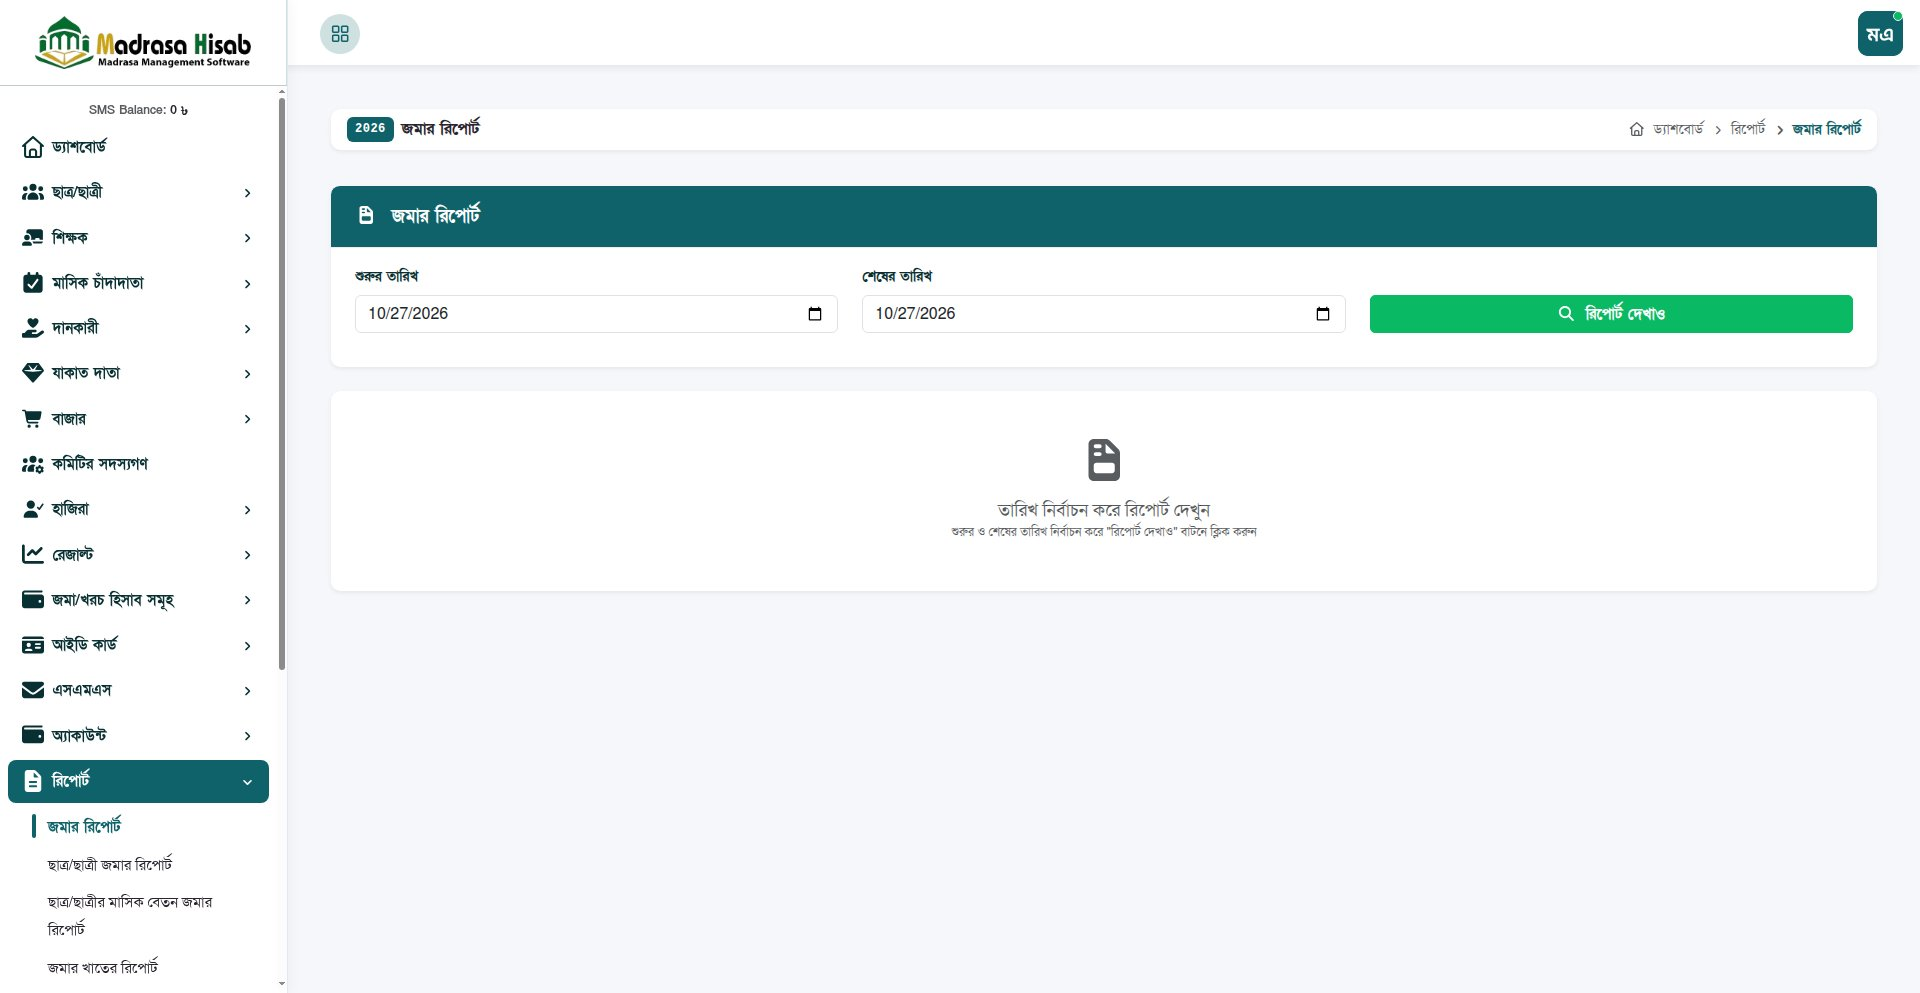
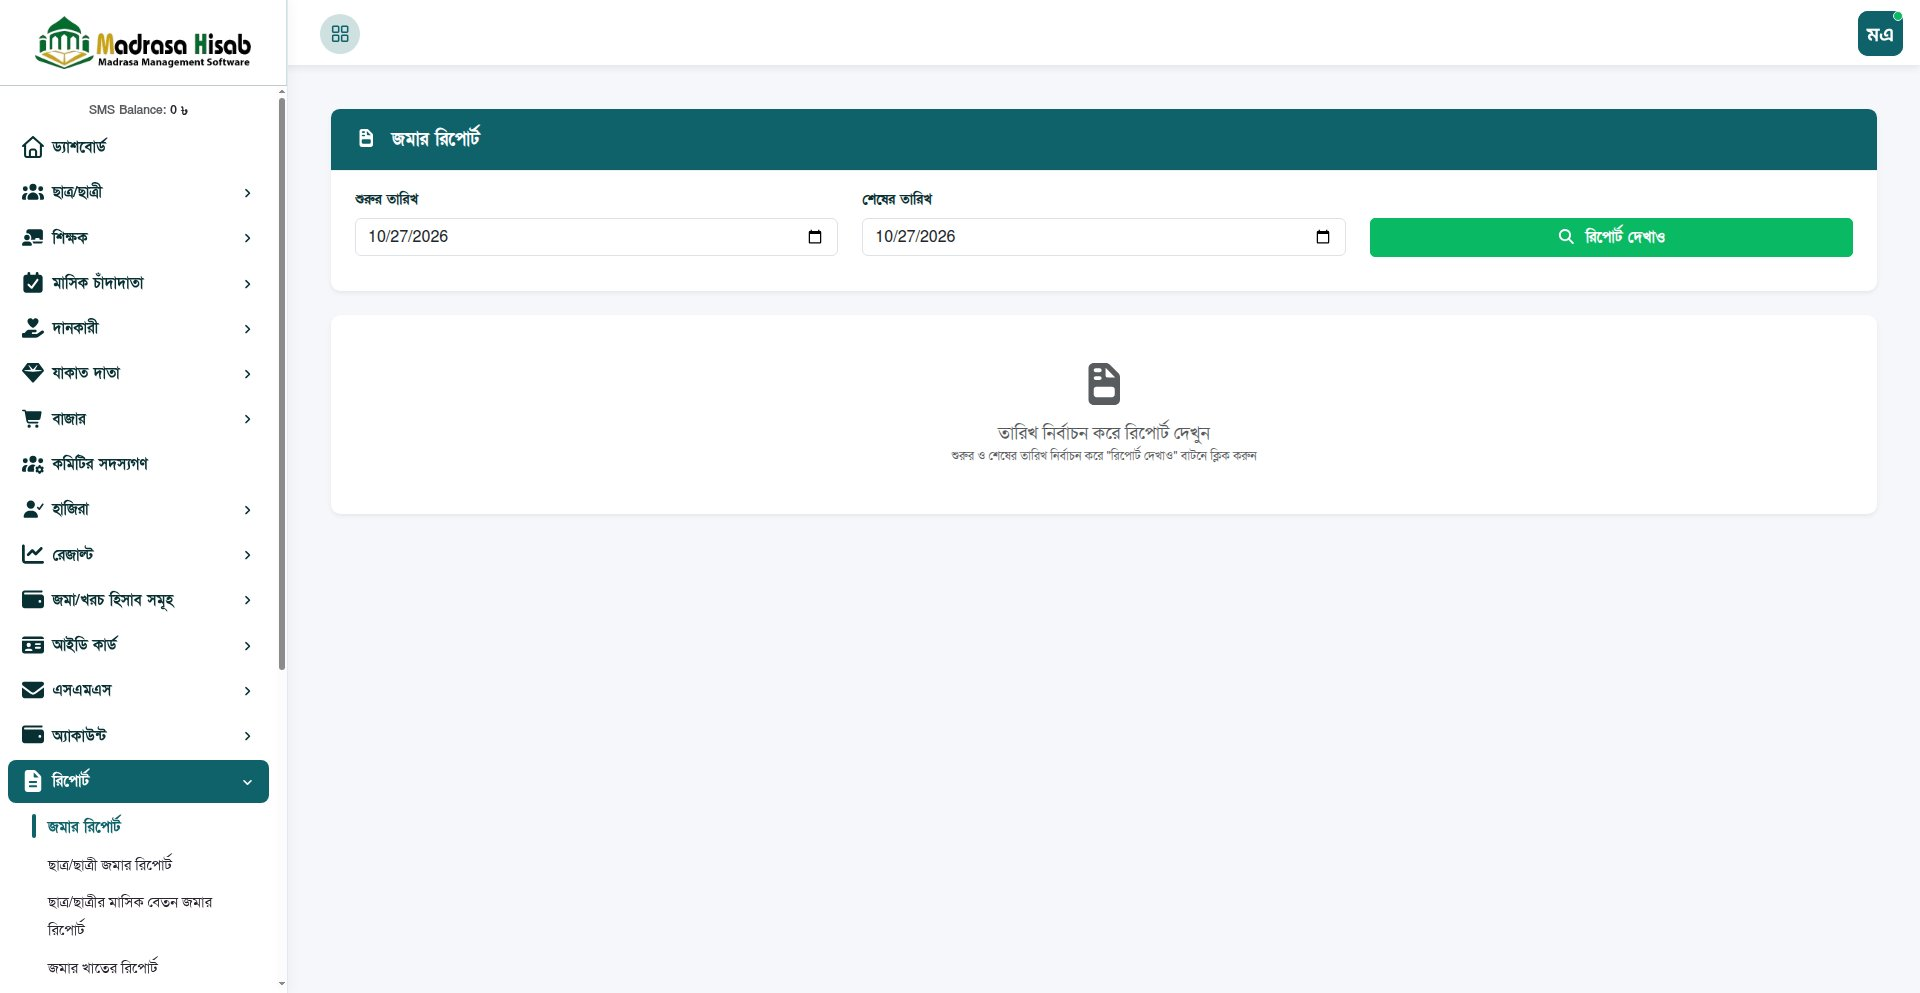
fix(report): refine deposit report table alignment, date edge-cases, and print styling

Changed region(s): [[0.1562, 0.0937, 1.0, 0.3434], [0.5, 0.3434, 0.6562, 0.5619], [0.4688, 0.3122, 0.5, 0.3434]]

diff --git a/src/components/reports/DepositReport.jsx b/src/components/reports/DepositReport.jsx
@@ -2,28 +2,15 @@
 
 import React, { useState, useEffect } from 'react';
 import { useApp } from '../../context/AppContext';
-import { numberToBengaliWords, formatMoney, formatDateDDMMYYYY } from '../../utils/bengaliWords';
-
-/**
- * Normalizes a date string to YYYY-MM-DD
- * Handles both "DD/MM/YYYY" and "YYYY-MM-DD"
- */
-function toStandardDateStr(dStr) {
-  if (!dStr) return '';
-  const s = String(dStr).trim().split('T')[0];
-  if (s.includes('/')) {
-    const parts = s.split('/');
-    if (parts.length === 3) {
-      // Assuming DD/MM/YYYY
-      const [day, month, year] = parts;
-      return `${year.padStart(4, '20')}-${month.padStart(2, '0')}-${day.padStart(2, '0')}`;
-    }
-  }
-  return s;
-}
+import {
+  numberToBengaliWords,
+  formatMoney,
+  formatDateDDMMYYYY,
+  toStandardDateStr
+} from '../../utils/bengaliWords';
 
 export const DepositReport = () => {
-  const { profile, transactions } = useApp();
+  const { profile, transactions, activeTab } = useApp();
 
   const todayStr = new Date().toISOString().split('T')[0];
 
@@ -66,6 +53,14 @@ export const DepositReport = () => {
     return () => window.removeEventListener('popstate', handlePopState);
   }, []);
 
+  // Re-sync when activeTab changes (e.g. clicking sidebar menu item resets search)
+  useEffect(() => {
+    const p = getInitialParams();
+    setStartDate(p.startDate);
+    setEndDate(p.endDate);
+    setAppliedFilter(p);
+  }, [activeTab]);
+
   const handleSubmit = (e) => {
     e.preventDefault();
 
@@ -74,28 +69,28 @@ export const DepositReport = () => {
       return;
     }
 
-    const startD = new Date(startDate);
-    const endD = new Date(endDate);
-    if (endD < startD) {
+    const normStart = toStandardDateStr(startDate);
+    const normEnd = toStandardDateStr(endDate);
+    if (normEnd < normStart) {
       alert('শেষের তারিখ শুরুর তারিখের পরে হতে হবে');
       return;
     }
 
-    const filterObj = { startDate, endDate, hasSearched: true };
+    const filterObj = { startDate: normStart, endDate: normEnd, hasSearched: true };
     setAppliedFilter(filterObj);
 
     if (typeof window !== 'undefined') {
       const url = new URL(window.location.href);
       url.pathname = '/admin/report/deposit';
-      url.searchParams.set('start_date', startDate);
-      url.searchParams.set('end_date', endDate);
+      url.searchParams.set('start_date', normStart);
+      url.searchParams.set('end_date', normEnd);
       window.history.pushState(null, '', url.toString());
     }
   };
 
-  // Filter deposit transactions within selected date range
-  const startD = appliedFilter.hasSearched && appliedFilter.startDate ? new Date(appliedFilter.startDate) : null;
-  const endD = appliedFilter.hasSearched && appliedFilter.endDate ? new Date(appliedFilter.endDate) : null;
+  // Filter deposit transactions within selected date range (normalized YYYY-MM-DD comparison)
+  const normFilterStart = appliedFilter.hasSearched ? toStandardDateStr(appliedFilter.startDate) : '';
+  const normFilterEnd = appliedFilter.hasSearched ? toStandardDateStr(appliedFilter.endDate) : '';
 
   const depositTransactions = (transactions || []).filter((t) => {
     const isDep = t.type === 'deposit' || t.type === 'income';
@@ -103,13 +98,11 @@ export const DepositReport = () => {
 
     if (!appliedFilter.hasSearched) return false;
 
-    const tDateStr = toStandardDateStr(t.date);
-    if (!tDateStr) return false;
-    const tD = new Date(tDateStr);
-    if (isNaN(tD.getTime())) return false;
+    const tDate = toStandardDateStr(t.date);
+    if (!tDate) return false;
 
-    if (startD && tD < startD) return false;
-    if (endD && tD > endD) return false;
+    if (normFilterStart && tDate < normFilterStart) return false;
+    if (normFilterEnd && tDate > normFilterEnd) return false;
 
     return true;
   });
@@ -307,7 +300,7 @@ export const DepositReport = () => {
               </div>
               <div className="table-responsive">
                 <table className="table table-bordered table-striped align-middle mb-0">
-                  <thead className="table bg-primary text-white">
+                  <thead className="bg-primary text-white">
                     <tr>
                       <th className="text-white text-center" style={{ width: '60px' }}>
                         ক্র নং
@@ -322,7 +315,7 @@ export const DepositReport = () => {
                     {depositCategorySummary.length === 0 ? (
                       <tr>
                         <td colSpan="5" className="text-center text-muted py-3">
-                          এই সময়কালে কোনো জমা হয়নি
+                          এই সময়কালে কোন জমা হয়নি
                         </td>
                       </tr>
                     ) : (
@@ -362,7 +355,7 @@ export const DepositReport = () => {
               </div>
               <div className="table-responsive">
                 <table className="table table-bordered table-hover align-middle mb-0">
-                  <thead className="table bg-primary text-white">
+                  <thead className="bg-primary text-white">
                     <tr>
                       <th className="text-white text-center" style={{ width: '50px' }}>
                         ক্র নং
@@ -380,7 +373,7 @@ export const DepositReport = () => {
                     {detailedDepositList.length === 0 ? (
                       <tr>
                         <td colSpan="8" className="text-center text-muted py-4">
-                          এই সময়কালে কোনো জমা ভাউচার নেই
+                          এই সময়কালে কোন জমা ভাউচার নেই
                         </td>
                       </tr>
                     ) : (

diff --git a/scripts/test_deposit_report_browser.js b/scripts/test_deposit_report_browser.js
@@ -40,7 +40,7 @@ async function main() {
     const send = (m, params = {}) => new Promise(res => { const i = id++; p.set(i, res); ws.send(JSON.stringify({ id: i, method: m, params })); });
 
     const evaluate = async (expr) => {
-      const r = await send('Runtime.evaluate', { expression: expr });
+      const r = await send('Runtime.evaluate', { expression: expr, returnByValue: true });
       return r?.result?.result?.value ?? r?.result?.value;
     };
 
@@ -111,13 +111,69 @@ async function main() {
       throw new Error(`Searched state text mismatch. Body: ${searchedText.slice(0, 300)}`);
     }
 
-    snap = await send('Page.captureScreenshot', { format: 'jpeg', quality: 85 });
+    // Test table column alignment
+    const alignmentCheck = await evaluate(`
+      (() => {
+        const table0 = document.querySelectorAll("table")[0];
+        const th0 = table0.querySelectorAll("th")[0];
+        const td0 = table0.querySelectorAll("tbody tr:first-child td")[0];
+        const diff0 = Math.abs(th0.offsetLeft - td0.offsetLeft);
+        
+        const table1 = document.querySelectorAll("table")[1];
+        const th1 = table1.querySelectorAll("th")[0];
+        const td1 = table1.querySelectorAll("tbody tr:first-child td")[0];
+        const diff1 = Math.abs(th1.offsetLeft - td1.offsetLeft);
+
+        const breadcrumbs = document.querySelector(".breadcrumb");
+        return { diff0, diff1, hasBreadcrumbs: Boolean(breadcrumbs) };
+      })()
+    `);
+    console.log('Table 0 header-td alignment delta:', alignmentCheck.diff0, 'px');
+    console.log('Table 1 header-td alignment delta:', alignmentCheck.diff1, 'px');
+    if (alignmentCheck.diff0 > 5 || alignmentCheck.diff1 > 5) {
+      throw new Error(`Table columns misaligned! deltas: ${JSON.stringify(alignmentCheck)}`);
+    }
+    console.log('  ✅ Table columns are 100% aligned with thead headers.');
+
+    if (alignmentCheck.hasBreadcrumbs) {
+      throw new Error('Breadcrumb card should be absent for report-deposit matching live site parity!');
+    }
+    console.log('  ✅ Verified breadcrumb card is absent matching live reference.');
+
+    // Save full page screenshots
+    snap = await send('Page.captureScreenshot', { format: 'jpeg', quality: 85, captureBeyondViewport: true });
     fs.writeFileSync(path.join(outDir, 'report-deposit-searched.jpg'), Buffer.from(snap.result.data, 'base64'));
     fs.writeFileSync(path.join(outDir, 'report-deposit.jpg'), Buffer.from(snap.result.data, 'base64'));
-    console.log('  📸 Screenshots saved: report-deposit-searched.jpg and report-deposit.jpg');
+    console.log('  📸 Fullpage screenshots saved: report-deposit-searched.jpg and report-deposit.jpg');
+
+    // Test print media emulation
+    console.log('\n--- 3. Testing Print Media Emulation ---');
+    await send('Emulation.setEmulatedMedia', { media: 'print' });
+    await new Promise(r => setTimeout(r, 600));
+    const printCheck = await evaluate(`
+      (() => {
+        const sidebar = document.querySelector(".app-sidebar");
+        const filterCard = document.querySelector(".no-print");
+        const printContent = document.querySelector("#printContent");
+        return {
+          sidebarDisplay: window.getComputedStyle(sidebar).display,
+          filterCardDisplay: window.getComputedStyle(filterCard).display,
+          printContentDisplay: window.getComputedStyle(printContent).display
+        };
+      })()
+    `);
+    console.log('Print emulation styles:', printCheck);
+    if (printCheck.sidebarDisplay !== 'none') {
+      throw new Error(`Sidebar must be hidden in print mode! Got: ${printCheck.sidebarDisplay}`);
+    }
+    if (printCheck.filterCardDisplay !== 'none') {
+      throw new Error(`Filter card must be hidden in print mode! Got: ${printCheck.filterCardDisplay}`);
+    }
+    console.log('  ✅ Print media verified: sidebar & filter card hidden, report content visible.');
+    await send('Emulation.setEmulatedMedia', { media: '' });
 
     // 4. Test clicking submit button on form interactively
-    console.log('\n--- 3. Testing Interactive Form Submit ---');
+    console.log('\n--- 4. Testing Interactive Form Submit ---');
     await send('Page.navigate', { url: 'http://localhost:3000/admin/report/deposit' });
     await waitForHydration();
 

diff --git a/scripts/test_deposit_report.js b/scripts/test_deposit_report.js
@@ -1,7 +1,7 @@
 import assert from 'node:assert';
 import fs from 'node:fs';
 import path from 'node:path';
-import { numberToBengaliWords, formatMoney, formatDateDDMMYYYY } from '../src/utils/bengaliWords.js';
+import { numberToBengaliWords, formatMoney, formatDateDDMMYYYY, toStandardDateStr } from '../src/utils/bengaliWords.js';
 
 console.log('========================================================');
 console.log('🧪 VERIFICATION SUITE: DEPOSIT REPORT (1:1 LIVE PARITY)');
@@ -62,7 +62,30 @@ assert.ok(depositContent.includes('card shadow-sm mb-4 no-print'), 'DepositRepor
 assert.ok(depositContent.includes('printContent'), 'DepositReport must have printContent container');
 assert.ok(depositContent.includes('window.print()'), 'DepositReport must have print trigger');
 assert.ok(depositContent.includes('টাকা মাত্র'), 'DepositReport must have Bengali words suffix');
+assert.ok(!depositContent.includes('<thead className="table '), 'thead must not have table class to prevent detached display:table layout glitch');
 console.log('  ✅ DepositReport.jsx structure verified matching live reference 100%.');
+
+// Test 7: Verify date normalization edge cases in toStandardDateStr
+console.log('\nTest 7: Testing date normalization edge cases...');
+assert.strictEqual(toStandardDateStr('2026-10-26'), '2026-10-26');
+assert.strictEqual(toStandardDateStr('26/10/2026'), '2026-10-26');
+assert.strictEqual(toStandardDateStr('26-10-2026'), '2026-10-26');
+assert.strictEqual(toStandardDateStr('2026/10/26'), '2026-10-26');
+assert.strictEqual(toStandardDateStr('2026-10-26 14:30:00'), '2026-10-26');
+assert.strictEqual(toStandardDateStr('2026-10-26T14:30:00Z'), '2026-10-26');
+console.log('  ✅ toStandardDateStr passed all format and timestamp edge cases.');
+
+// Test 8: Verify Breadcrumbs exclusion for clean live report parity
+console.log('\nTest 8: Verifying Breadcrumbs exclusion for report-deposit...');
+const breadcrumbsContent = fs.readFileSync(path.join(process.cwd(), 'src/components/layout/Breadcrumbs.jsx'), 'utf8');
+assert.ok(breadcrumbsContent.includes("'report-deposit'"), 'Breadcrumbs.jsx must exclude report-deposit from redundant breadcrumbs banner');
+console.log('  ✅ Breadcrumbs exclusion verified.');
+
+// Test 9: Verify Print CSS rules
+console.log('\nTest 9: Verifying print CSS rules for clean print view...');
+const indexCssContent = fs.readFileSync(path.join(process.cwd(), 'src/index.css'), 'utf8');
+assert.ok(indexCssContent.includes('.app-sidebar'), 'index.css @media print must hide .app-sidebar');
+console.log('  ✅ Print CSS verified.');
 
 console.log('\n========================================================');
 console.log('🎉 DEPOSIT REPORT VERIFIED WITH 100% PARITY!');

diff --git a/src/context/AppContext.jsx b/src/context/AppContext.jsx
@@ -583,17 +583,19 @@ export const AppProvider = ({ children, initialSlug }) => {
   // Add Deposit Voucher
   const addDepositVoucher = (voucherData) => {
     const newVoucher = {
-      id: `DEP-${Date.now()}`,
+      id: voucherData.id || `DEP-${Date.now()}`,
       type: 'deposit',
-      voucherNo: `JV-${new Date().getFullYear()}-${Math.floor(100 + Math.random() * 900)}`,
+      voucherNo: voucherData.voucherNo || `JV-${new Date().getFullYear()}-${Math.floor(100 + Math.random() * 900)}`,
       date: voucherData.date || new Date().toISOString().split('T')[0],
       receiver: voucherData.receiver || 'মাহমুদুল করিম',
       account: voucherData.account || accounts[0]?.name,
       donorOrStudent: voucherData.donorOrStudent,
+      bookNo: voucherData.bookNo || '-',
+      receiptNo: voucherData.receiptNo || '-',
       items: voucherData.items || [],
       totalAmount: parseFloat(voucherData.totalAmount) || 0,
       note: voucherData.note || '',
-      status: 'অনুমোদিত'
+      status: voucherData.status || 'অনুমোদিত'
     };
 
     setTransactions(prev => [newVoucher, ...prev]);

diff --git a/src/index.css b/src/index.css
@@ -93,8 +93,14 @@
     background: #ffffff !important;
     color: #000000 !important;
   }
-  .no-print, header, aside, footer {
+  .no-print, header, aside, footer, .app-sidebar, nav.app-sidebar, .sidebar-backdrop {
     display: none !important;
+  }
+  .app-content {
+    margin: 0 !important;
+    padding: 0 !important;
+    width: 100% !important;
+    max-width: 100% !important;
   }
   .print-only {
     display: block !important;
@@ -352,3 +358,26 @@ nav[aria-label="breadcrumb"],
     padding-left: 80px !important;
   }
 }
+
+/* Definitive Print Overrides - must appear after all layout rules */
+@media print {
+  .app-wrapper nav.app-sidebar,
+  .app-wrapper > nav,
+  nav.app-sidebar,
+  .app-sidebar,
+  .sidebar-backdrop,
+  header,
+  .header-main,
+  aside,
+  footer,
+  .no-print {
+    display: none !important;
+  }
+  .app-wrapper .app-content {
+    padding-left: 0 !important;
+    margin: 0 !important;
+    width: 100% !important;
+    max-width: 100% !important;
+  }
+}
+

diff --git a/src/utils/bengaliWords.js b/src/utils/bengaliWords.js
@@ -64,3 +64,25 @@ export function formatDateDDMMYYYY(dateStr) {
   }
   return dateStr;
 }
+
+/**
+ * Normalizes any date string (DD/MM/YYYY, YYYY-MM-DD, DD-MM-YYYY, YYYY/MM/DD, ISO) to standard YYYY-MM-DD
+ */
+export function toStandardDateStr(dStr) {
+  if (!dStr) return '';
+  const s = String(dStr).trim().split('T')[0].split(' ')[0];
+  const sep = s.includes('/') ? '/' : s.includes('-') ? '-' : null;
+  if (sep) {
+    const parts = s.split(sep);
+    if (parts.length === 3) {
+      const [p1, p2, p3] = parts;
+      if (p1.length === 4) {
+        return `${p1}-${p2.padStart(2, '0')}-${p3.padStart(2, '0')}`;
+      } else if (p3.length === 4) {
+        return `${p3.padStart(4, '20')}-${p2.padStart(2, '0')}-${p1.padStart(2, '0')}`;
+      }
+    }
+  }
+  return s;
+}
+

diff --git a/src/components/layout/Breadcrumbs.jsx b/src/components/layout/Breadcrumbs.jsx
@@ -132,7 +132,8 @@ export const Breadcrumbs = () => {
   if (
     !activeTab ||
     activeTab === 'dashboard' ||
-    ['report-daily', 'report-yearly', 'report-bank'].includes(activeTab)
+    ['report-daily', 'report-yearly', 'report-bank'].includes(activeTab) ||
+    activeTab === 'report-deposit'
   ) {
     return null;
   }
